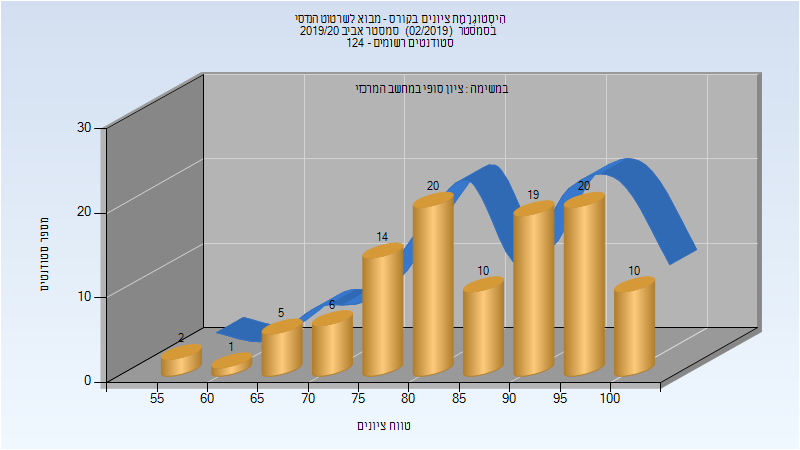
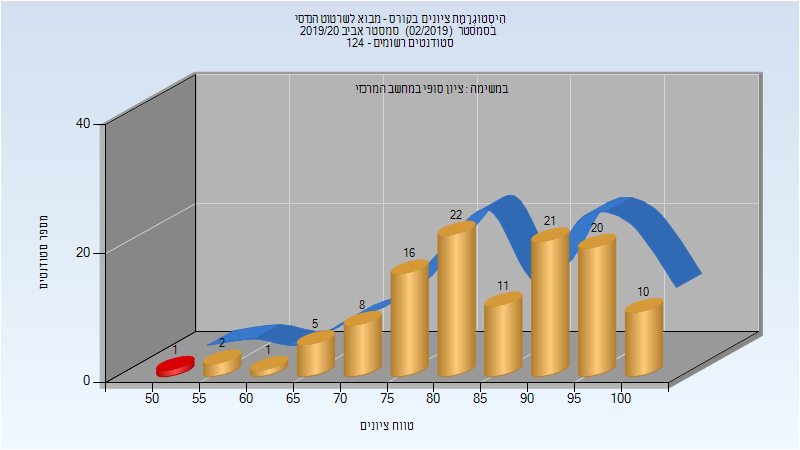
Deploy michael-maltsev/technion-histograms to github.com/michael-maltsev/technion-histograms.git:gh-pages

diff --git a/034042/index.html b/034042/index.html
@@ -1115,12 +1115,12 @@
 </thead>
 <tbody>
 <tr>
-<td>107</td>
-<td>107/0</td>
+<td>117</td>
+<td>116/1</td>
+<td>99</td>
+<td>52</td>
 <td>100</td>
-<td>56</td>
-<td>100</td>
-<td>86.093</td>
+<td>85.427</td>
 <td>87</td>
 </tr>
 </tbody>

diff --git a/034042/README.md b/034042/README.md
@@ -348,5 +348,5 @@
 
 | סטודנטים | עברו/נכשלו | אחוז עוברים | ציון מינימלי | ציון מקסימלי | ממוצע | חציון |
 | ---- | ---- | ---- | ---- | ---- | ---- | ---- |
-| 107 | 107/0 | 100 | 56 | 100 | 86.093 | 87 |
+| 117 | 116/1 | 99 | 52 | 100 | 85.427 | 87 |
 
